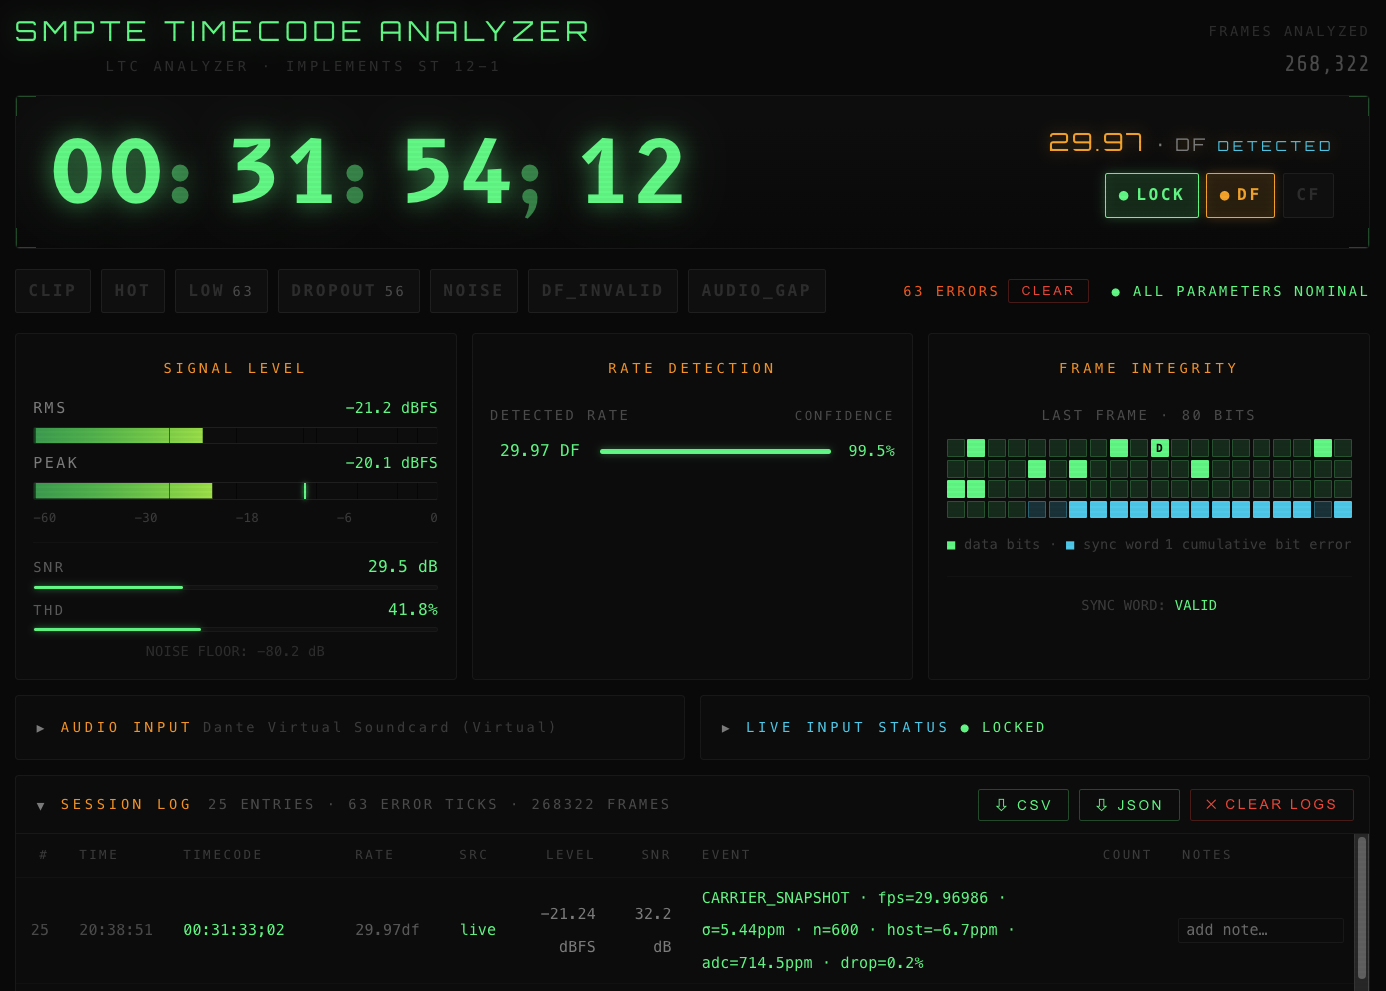
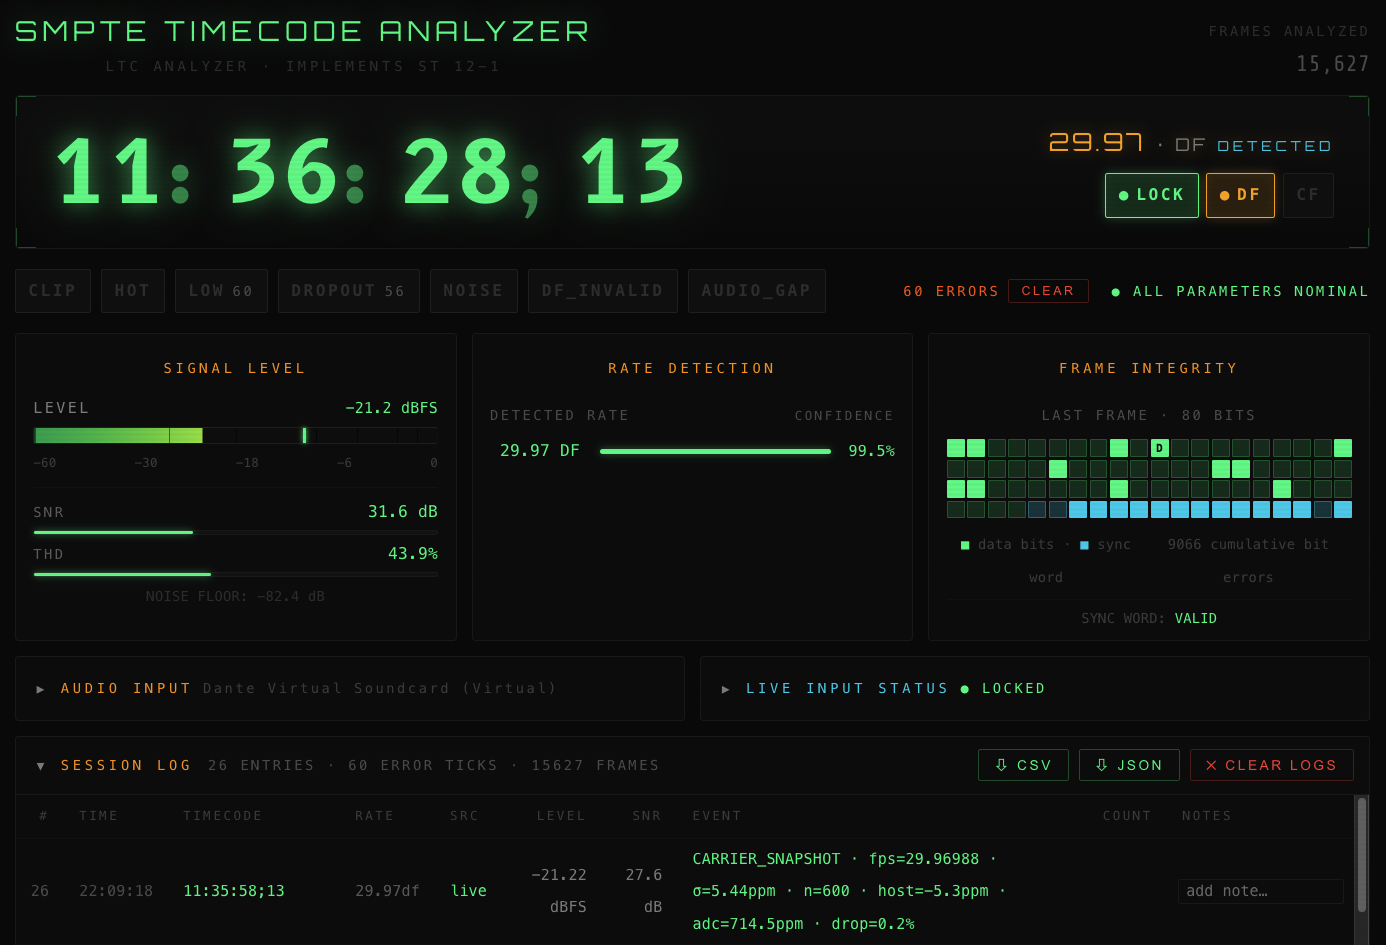
feat: collapse RMS+PEAK meters into one bar, make peak drive CLIP (#70)
LTC is near-square (crest factor ~1), so the separate PEAK bar shadowed
the RMS bar with no independent information. Collapse to a single LEVEL
meter: RMS drives the fill, the peak-hold marker rides on top and turns
red on clip.

Move CLIP detection onto peak (per-sample full-scale event) instead of
RMS, which averages clipped samples down and can read below -1 dBFS while
individual samples slam into 0. HOT/LOW/DROPOUT stay RMS-driven. Sim path
reordered so its synthetic peak drives CLIP too, mirroring live.

Peak is still computed and published as peakDbFS; it just lost its
redundant second bar.

Also tighten vertical spacing in the FRAME INTEGRITY box (bit legend row
and SYNC WORD line), and refresh the README hero screenshot for the single
LEVEL meter.

diff --git a/smpte-analyzer/src/App.jsx b/smpte-analyzer/src/App.jsx
@@ -212,7 +212,10 @@ function generateSimulatedAnalysis(rateKey, levelDbFS, noiseLevel, dropoutProb) 
   // Simulate errors
   const hasDropout = Math.random() < dropoutProb;
   const hasNoise = noiseLevel > 0.15;
-  const isClipping = levelDbFS > LEVEL_SPEC.CLIP_THRESHOLD;
+  // Synthetic per-sample peak rides a few dB above RMS; CLIP is peak-driven so
+  // the sim mirrors the live path's semantics.
+  const peakDbFS = levelDbFS + (Math.random() * 3 - 1.5);
+  const isClipping = peakDbFS > LEVEL_SPEC.CLIP_THRESHOLD;
   const isHot = levelDbFS > LEVEL_SPEC.HOT_THRESHOLD;
   const isTooQuiet = levelDbFS < LEVEL_SPEC.LOW_THRESHOLD;
   const isDropout = levelDbFS < LEVEL_SPEC.SILENT_THRESHOLD || hasDropout;
@@ -232,7 +235,7 @@ function generateSimulatedAnalysis(rateKey, levelDbFS, noiseLevel, dropoutProb) 
     colorFrame: false,
     rateKey,
     levelDbFS,
-    peakDbFS: levelDbFS + (isClipping ? 0 : (Math.random() * 3 - 1.5)),
+    peakDbFS,
     noiseFloor: levelDbFS - 20 - noiseLevel * 30,
     snr: 60 - noiseLevel * 50,
     thd: noiseLevel * 5,
@@ -292,6 +295,9 @@ function LevelMeter({ label, value, peak, min=-60, max=0, showTicks=true }) {
               : value > LEVEL_SPEC.NOMINAL ? "#ccff33"
               : value > LEVEL_SPEC.LOW_THRESHOLD ? "#00ff88"
               : "#ff5500";
+  // Peak (per-sample) is the physically correct clip signal — flag the hold
+  // marker red when peak crosses the clip threshold even if RMS fill is calm.
+  const peakColor = peak > LEVEL_SPEC.CLIP_THRESHOLD ? "#ff1a1a" : color;
 
   const markers = [-60, -40, -30, -20, -18, -12, -6, -3, 0];
 
@@ -325,8 +331,8 @@ function LevelMeter({ label, value, peak, min=-60, max=0, showTicks=true }) {
           <div style={{
             position:"absolute", top:0, bottom:0,
             left:`${Math.min(99.5, peakPct)}%`,
-            width:2, background: color,
-            boxShadow:`0 0 4px ${color}`,
+            width:2, background: peakColor,
+            boxShadow:`0 0 4px ${peakColor}`,
           }} />
         )}
       </div>
@@ -422,7 +428,7 @@ function BitStreamView({ bits, bitErrors, locked }) {
           );
         })}
       </div>
-      <div style={{ marginTop:8, display:"flex", justifyContent:"space-between", fontSize:11, color:"#444", fontFamily:"monospace" }}>
+      <div style={{ marginTop:8, marginBottom:-8, display:"flex", justifyContent:"space-between", fontSize:11, color:"#444", fontFamily:"monospace" }}>
         <span>
           <span style={{ color:"#00ff88" }}>■</span> data bits ·{" "}
           <span style={{ color:"#22d3ee" }}>■</span> sync word
@@ -1053,7 +1059,10 @@ export default function SMPTEAnalyzer() {
       // SNR gauge already report signal-quality information without a
       // misleading boolean.
       const live = [];
-      if (lvl > LEVEL_SPEC.CLIP_THRESHOLD) live.push("CLIP");
+      // CLIP is a per-sample full-scale event, so detect it from peak, not RMS
+      // (RMS averages clipped samples down and can read below −1 dBFS while
+      // individual samples slam into 0). HOT remains an RMS/sustained-level tag.
+      if ((realPeakDb ?? lvl) > LEVEL_SPEC.CLIP_THRESHOLD) live.push("CLIP");
       else if (lvl > LEVEL_SPEC.HOT_THRESHOLD) live.push("HOT");
       // LOW / DROPOUT only mean something for an LTC signal that's degrading.
       // Without a recent decoded frame the input is either silence (idle
@@ -2327,11 +2336,12 @@ export default function SMPTEAnalyzer() {
         {/* Level Section */}
         <div className="panel-level" style={{ ...PANEL, padding:14, display:"flex", flexDirection:"column", gap:6 }}>
           <div style={{ fontSize:11, color:"#ff9900", letterSpacing:3 }}>SIGNAL LEVEL</div>
-          {/* RMS and PEAK share one identical dB scale; render it only under
-              PEAK (the lower meter) to save a row. */}
+          {/* Single bar: RMS drives the fill (HOT/LOW coloring), the peak-hold
+              marker rides on top and turns red on clip. LTC is near-square
+              (crest factor ≈ 1), so a separate PEAK bar carried no independent
+              information — peak instead does real work as the clip detector. */}
           <div style={{ display:"flex", flexDirection:"column", gap:2 }}>
-            <LevelMeter label="RMS" value={analysis?.levelDbFS ?? levelDbFS} showTicks={false} />
-            <LevelMeter label="PEAK" value={analysis?.peakDbFS ?? levelDbFS + 2} peak={peakHold} />
+            <LevelMeter label="LEVEL" value={analysis?.levelDbFS ?? levelDbFS} peak={peakHold} />
           </div>
           <div style={{ height:"1px", background:"#111" }} />
           <div style={{ display:"flex", flexDirection:"column", gap:3 }}>
@@ -2370,7 +2380,7 @@ export default function SMPTEAnalyzer() {
               FRAMES DECODED are shown in the grid legend above and in LIVE INPUT
               STATUS. This line is `ltcLocked` (fresh decode), distinct from the
               top LOCK badge which is `frameValid` (decode AND clean levels). */}
-          <div style={{ fontSize:11, fontFamily:"monospace", color:"#444", lineHeight:2 }}>
+          <div style={{ fontSize:11, fontFamily:"monospace", color:"#444", lineHeight:2, marginTop:-8, marginBottom:-8 }}>
             <div>SYNC WORD: <span style={{color: ltcLocked ? "#00ff88" : "#ff3b3b"}}>
               {ltcLocked ? "VALID" : "—"}
             </span></div>

diff --git a/README.md b/README.md
@@ -6,7 +6,7 @@ This tool reads **LTC only**. VITC (vertical interval timecode) and ATC (ancilla
 
 For a full list of every on-screen indicator and where its value comes from, see [`INDICATORS.md`](INDICATORS.md).
 
-![The analyzer locked to a 29.97 DF source — decoded timecode, signal-level meters, rate detection with confidence, and the live 80-bit frame-integrity map.](docs/images/tc_running.png)
+![The analyzer locked to a 29.97 DF source — decoded timecode, the signal-level meter, rate detection with confidence, and the live 80-bit frame-integrity map.](docs/images/tc_running.png)
 
 <p align="center"><em>Locked to a 29.97 DF source: decoded timecode, RMS/peak meters, rate detection with confidence, and the live 80-bit frame map.</em></p>
 
